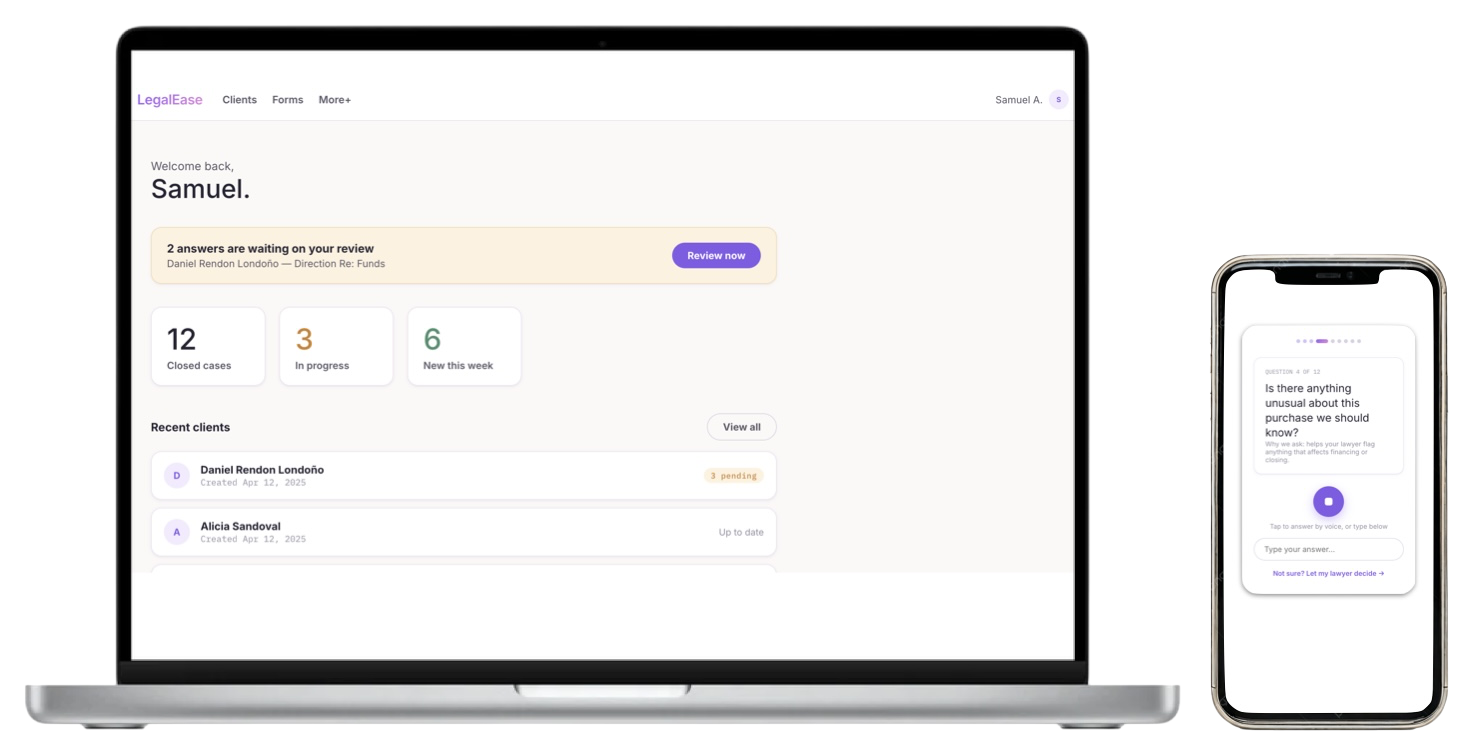
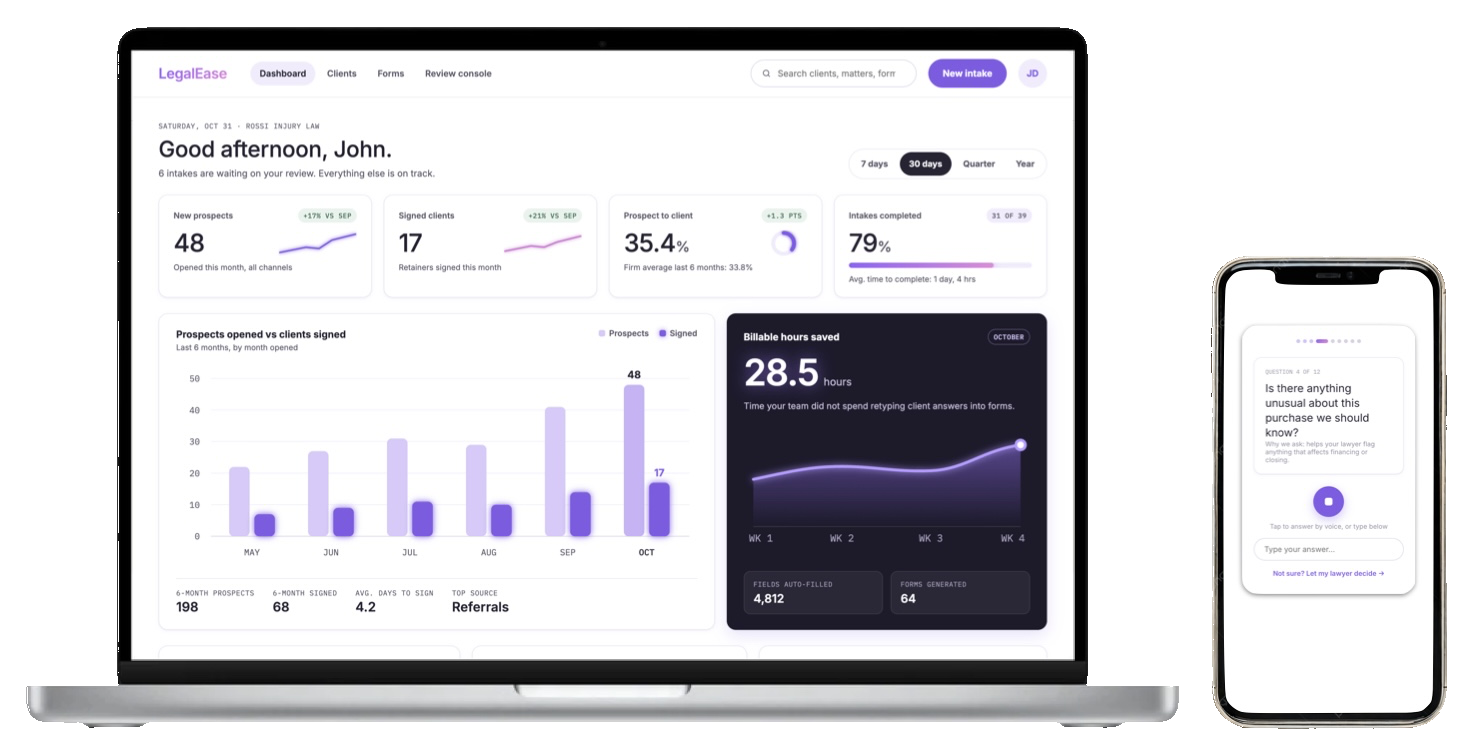
Update LegalEase widget screenshots to the latest product screens

diff --git a/solutions.html b/solutions.html
@@ -218,17 +218,17 @@
         <div class="lem-stage">
           <div class="lem-slide active" data-slide="0">
             <p class="lem-caption">Upload a pdf. Get a form, in <span class="lem-grad">seconds</span>.</p>
-            <img class="lem-shot" src="assets/img/legalease/legalease-laptop-trim.png" alt="LegalEase field mapping screen: a lawyer's uploaded form with client questions pinned to each field">
+            <img class="lem-shot" src="assets/img/legalease/legalease-laptop-trim.png" alt="LegalEase form review screen: an Ontario Form 7A Plaintiff's Claim with each field mapped to a plain-language client question, approved or flagged for review">
           </div>
 
           <div class="lem-slide" data-slide="1">
             <p class="lem-caption">Get your clients to fill their forms <span class="lem-grad">faster</span>.</p>
-            <img class="lem-shot lem-shot-tall" src="assets/img/legalease/legalease-phone-trim.png" alt="LegalEase client intake screen on a phone, showing a plain-language flashcard question with a voice answer option">
+            <img class="lem-shot lem-shot-tall" src="assets/img/legalease/legalease-phone-trim.png" alt="LegalEase client intake on a phone, asking the client to tell what happened in their own words, by typing or by voice">
           </div>
 
           <div class="lem-slide" data-slide="2">
             <p class="lem-caption"><span class="lem-grad-amber">Google Forms</span> is a thing of the <span class="lem-grad">past</span>.</p>
-            <img class="lem-shot lem-shot-compact" src="assets/img/legalease/legalease-laptop-phone-trim.png" alt="LegalEase lawyer dashboard showing client cases, answers awaiting review, and recent clients">
+            <img class="lem-shot lem-shot-compact" src="assets/img/legalease/legalease-laptop-phone-trim.png" alt="LegalEase lawyer dashboard showing new prospects, signed clients, intake completion and billable hours saved, beside the client intake on a phone">
             <p class="lem-caption lem-caption-bottom">Get <span class="lem-grad">LegalEase</span>, It just makes sense.</p>
           </div>
         </div>
